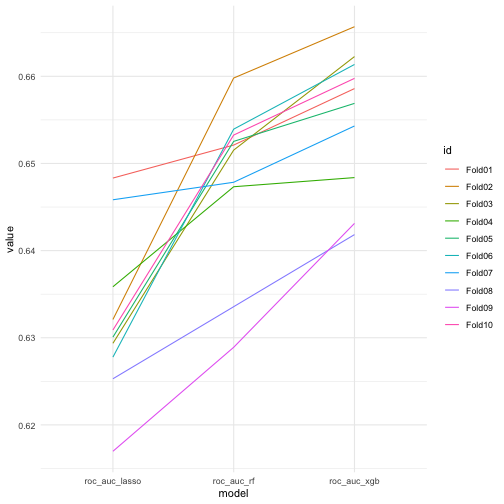
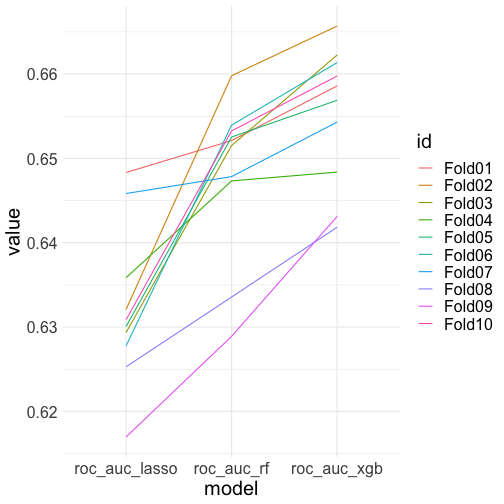
Refining presentation

diff --git a/xaringan_presentation/slides.html b/xaringan_presentation/slides.html
@@ -1,7 +1,7 @@
 <!DOCTYPE html>
 <html xmlns="http://www.w3.org/1999/xhtml" lang="" xml:lang="">
   <head>
-    <title>Bayesian Model Comparison</title>
+    <title>ML Models Comparison</title>
     <meta charset="utf-8" />
     <meta name="author" content="David Masip" />
     <link href="libs/remark-css-0.0.1/default.css" rel="stylesheet" />
@@ -9,21 +9,27 @@
   </head>
   <body>
     <textarea id="source">
-class: center, middle, inverse, title-slide
+class: center, middle, title-slide
 
-# Bayesian Model Comparison
+# ML Models Comparison
+## github.com/david26694/model-comparison-training
 ### David Masip
 ### Pagantis
-### 2019/09/18 (updated: 2019-09-07)
+### 2019/09/16
 
 ---
 
 
 ## Introduction
 
-* Problem to solve.
-* Frequentist methods.
-* Bayesian methods.
+
+- Problem description and approach.
+
+- Frequentist methods and criticism.
+
+- Bayesian methods and criticism.
+
+- Examples.
 
 ---
 
@@ -32,14 +38,17 @@ class: center, middle, inverse, title-slide
 Given two models trained on the same dataset, we want to assess which one is better according to a given metric.
 
 Requirements:
-* We should not use test set to assess.
-* We should embrace uncertainty.
+
+- We should not use test set to assess.
+
+- We should embrace uncertainty.
 
 Solution: metric in cross-validation folds ([trust your local cv](http://www.chioka.in/how-to-select-your-final-models-in-a-kaggle-competitio/)).
 
 ???
 
 - Model doesn't imply ml algorithm -&gt; it can imply using different featrues, a more regularized version of the same model
+- Use same folds!
 
 ---
 
@@ -96,15 +105,9 @@ aucs
 
 ---
 
-## Disclaimer
-
-I'm not a bayesian fan-boy.
-
----
-
 ## Frequentist methods 1: paired t-test
 
-- Doesn't account for correlation among folds (test considers sample independent).
+- Doesn't account for correlation among folds (test considers independent samples).
 
 
 ```r
@@ -154,6 +157,8 @@ t.test(aucs$roc_auc_xgb, aucs$roc_auc_lasso, paired = T)
 
 Paired t-test that accounts for the correlation between samples (Nadeau and Bengio, 2003).
 
+- There is no unbiased estimator for the correlation.
+
 - Correlation parameter is estimated through an heuristic.
 
 ---
@@ -163,6 +168,7 @@ Paired t-test that accounts for the correlation between samples (Nadeau and Beng
 `$$auc = b_0 + b_1 m_1 + b_2 m_2$$`
 
 - Can compare multiple models.
+
 - Doesn't account for correlation.
 
 ---
@@ -197,6 +203,7 @@ anova(lm(value ~ model, anova_df))
 ## Correlated structure!
 
 - Fold 1 and 2 are "easy".
+
 - Fold 8 and 9 are "hard".
 
 .pull-left[
@@ -207,7 +214,12 @@ anova_df %&gt;%
              y = value, 
              group = id, 
              color = id)) + 
-  geom_line() 
+  geom_line() +
+  theme(
+    text = element_text(
+      size = 20
+      )
+  )
 ```
 ]
 
@@ -231,6 +243,10 @@ Random intercepts model
 
 Not same as dummy variables, `\(u\)` is a random variable.
 
+---
+class: center, middle
+
+# Disclaimer: I'm not a frequentist hater.
 
 ---
 
@@ -261,10 +277,21 @@ p-value ignores magnitude
 
 ---
 
+## Bayesian 101
+
+- Frequentist methods: the parameter has a true value, we estimate it via maximum likelihood or other methods.
+
+- Bayesian methods: the parameter has a distribution of possible values. We have prior knowledge, and update the distribution according to the data.
+
+
+---
+
 ## Bayesian methods 
 
 Methods:
-- Correlated t-test (Benavoli et al., 2017): (when number of samples grow, it tends to the frequentist t-test).
+
+- Correlated t-test (Benavoli et al., 2017): _the probability of the bayesian t-test and p-value of the frequentist t-test are numerically equivalent_.
+
 - ANOVA with random intercepts: [tidyposterior](https://tidymodels.github.io/tidyposterior/index.html) and [Max Kuhn talk](https://www.youtube.com/watch?v=MJdsnJCWIuA&amp;t=853s).
 Output: we obtain posterior distributions of the metric, and posterior distributions of the metric differences.
 
@@ -273,8 +300,13 @@ Output: we obtain posterior distributions of the metric, and posterior distribut
 
 ## Practical differences
 
-- Region of practical equivalence (ROPE): range of values of the metrics’ difference where we think the models as equivalent (definition left to the modeller).
+.middle[
+  
+  - Region of practical equivalence (ROPE): range of values of the metrics’ difference where we think the models as equivalent (definition left to the modeller).
+
 - Classification: classifiers whose difference in metric (auc, accuracy, f1) is less than 1% are usually thought as equivalent. The ROPE is then [-0.01, 0.01].
+
+]
 
 
 ---
@@ -284,7 +316,9 @@ Output: we obtain posterior distributions of the metric, and posterior distribut
 
 Three probabilities:
 - `\(P(m1 &gt;&gt; m2)\)`
+
 - `\(P(m1 = m2)\)` (practically)
+
 - `\(P(m1 &lt;&lt; m2)\)`
 
 
@@ -297,7 +331,9 @@ Three probabilities:
 ## Bayesian pitfalls
 
 - Choosing priors
+
 - Defining ROPE
+
 - End up thinking black and white-ish.
 
 
@@ -347,9 +383,9 @@ summary(bayesian_comparison, size = 0.01) %&gt;%
 ## # A tibble: 3 x 4
 ##   contrast                     pract_neg pract_equiv pract_pos
 ##   &lt;chr&gt;                            &lt;dbl&gt;       &lt;dbl&gt;     &lt;dbl&gt;
-## 1 roc_auc_lasso vs roc_auc_rf      0.973       0.027     0    
-## 2 roc_auc_xgb vs roc_auc_lasso     0           0         1    
-## 3 roc_auc_xgb vs roc_auc_rf        0           0.853     0.147
+## 1 roc_auc_lasso vs roc_auc_rf      0.978      0.0222     0    
+## 2 roc_auc_xgb vs roc_auc_lasso     0          0.0005     1.000
+## 3 roc_auc_xgb vs roc_auc_rf        0          0.855      0.145
 ```
 
 ```r
@@ -362,9 +398,9 @@ summary(bayesian_comparison, size = 0.03) %&gt;%
 ## # A tibble: 3 x 4
 ##   contrast                     pract_neg pract_equiv pract_pos
 ##   &lt;chr&gt;                            &lt;dbl&gt;       &lt;dbl&gt;     &lt;dbl&gt;
-## 1 roc_auc_lasso vs roc_auc_rf    0.00025       1.000    0     
-## 2 roc_auc_xgb vs roc_auc_lasso   0             0.990    0.0105
-## 3 roc_auc_xgb vs roc_auc_rf      0             1        0
+## 1 roc_auc_lasso vs roc_auc_rf          0       1        0     
+## 2 roc_auc_xgb vs roc_auc_lasso         0       0.992    0.0085
+## 3 roc_auc_xgb vs roc_auc_rf            0       1        0
 ```
 ---
 
@@ -393,6 +429,21 @@ ggplot(bayesian_comparison, size = 0.03)
 ## Thanks
 
 ![](images/tweet.png)
+
+
+---
+
+
+## References 
+
+- Inference for the Generalization Error (Nadeau and Bengio, 2003).
+
+- Time for a Change: a Tutorial for Comparing Multiple Classifiers Through Bayesian Analysis (Benavoli et al, 2017).
+
+- Comparing posteriors: Estimating Practical Differences Between Models (Max Kuhn, 2018 New York R Conference).
+
+- tidyposterior package.
+
 
 
 ---
